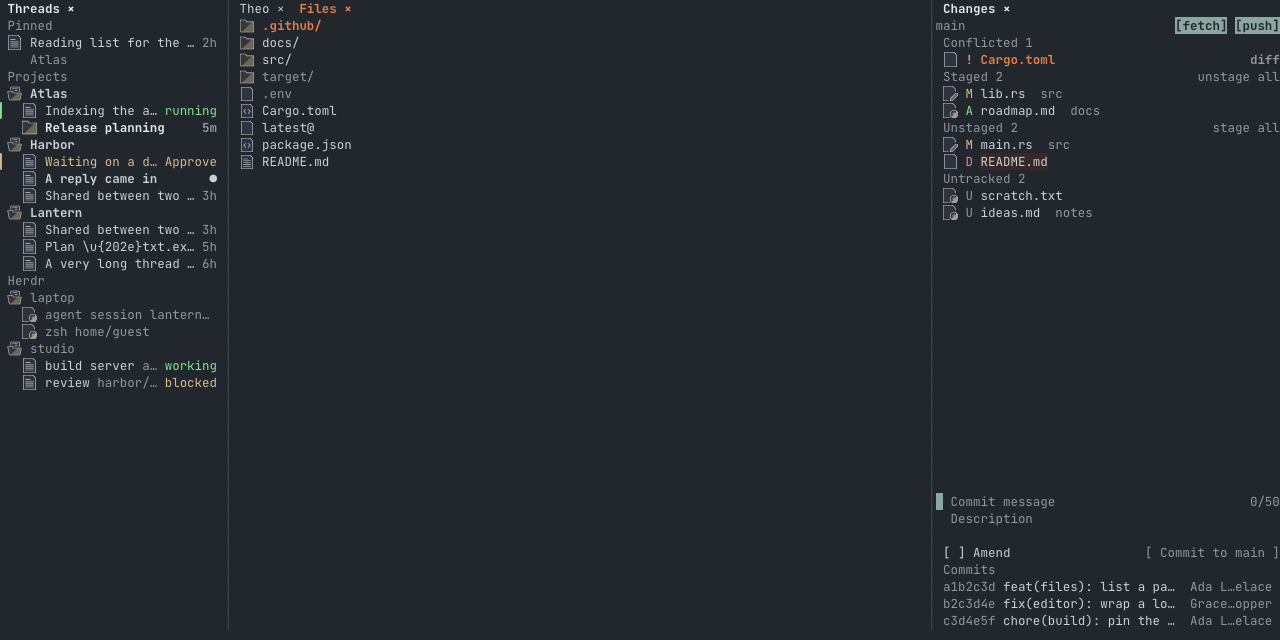
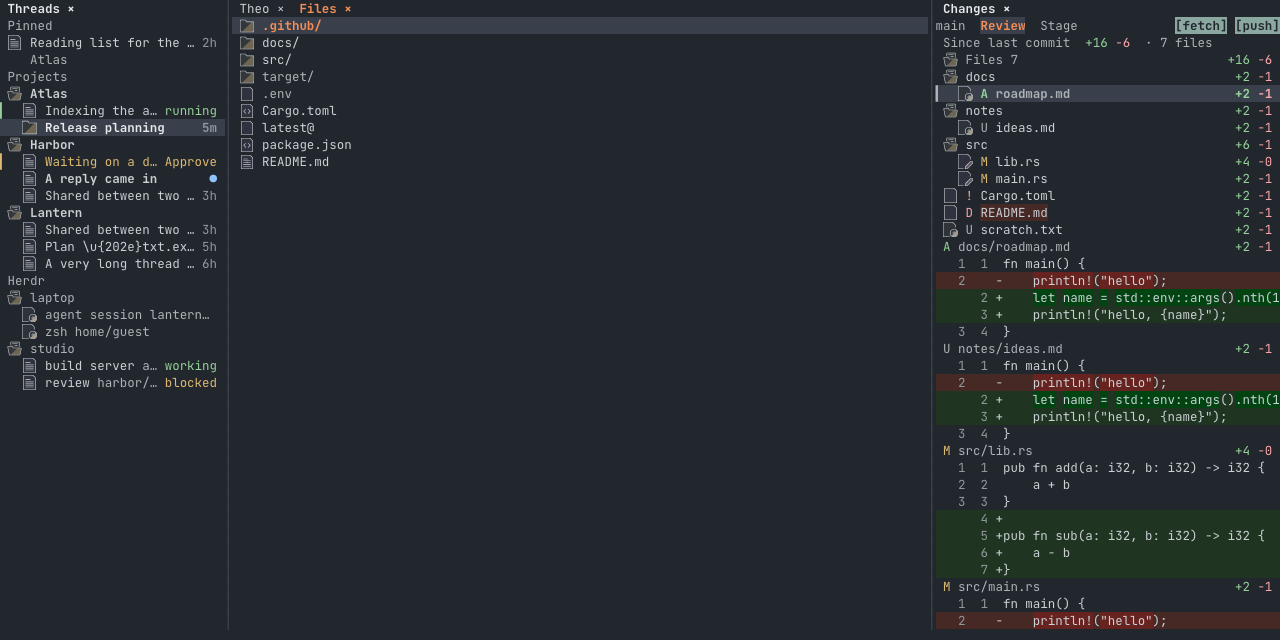
feat(panels): put the chosen row of Files and the tool picker on the selected surface
The chosen row in Files and in the tool picker now sits on the theme's
selected band, as it already does in Threads and Changes. Its letters keep
the focus colour while the panel holds the keyboard and bright ink while it
does not. A theme without a band draws as before.

The picker story opens the picker on its key again: since Threads moved to
the left and Changes with Files to the right, a fresh workbench no longer
rests on the picker, so the story showed none. Its render, its collage and
the Files, cabinet and default-arrangement renders are re-shot.

diff --git a/src/components/workbench/workbench-story.tsx b/src/components/workbench/workbench-story.tsx
@@ -331,8 +331,8 @@ export function WorkbenchDefaultStory() {
 }
 
 /**
- * `workbench-picker`: the tool picker in a tools pane wide enough for two columns (the core's fit
- * rule needs 86 cells), beside Files and the main page, every tool live.
+ * `workbench-picker`: the tool picker, opened on its key, in a tools pane wide enough for two columns
+ * (the core's fit rule needs 86 cells), beside the main page, every tool live.
  */
 export function WorkbenchPickerStory() {
   return (
@@ -341,8 +341,8 @@ export function WorkbenchPickerStory() {
       width={PICKER_WIDTH}
       height={PICKER_HEIGHT}
       options={{ granted: EVERY_TOOL }}
-      script={[]}
-      wait={['README.md', 'More tools']}
+      script={[{ chord: 't' }, { see: 'More tools' }]}
+      wait={['More tools']}
     />
   )
 }

diff --git a/terminal/crates/workbench-panels/tests/files.rs b/terminal/crates/workbench-panels/tests/files.rs
@@ -2294,3 +2294,35 @@ fn a_cut_is_not_applied_after_the_edit_has_ended() {
     answer(&mut r, &write, Outcome::Accepted);
     assert!(r.screen().contains("a.txt"), "{}", r.screen());
 }
+
+#[test]
+fn the_cursor_row_sits_on_the_selected_surface_when_the_theme_draws_one() {
+    let band = Color::Rgb(0x2a, 0x33, 0x3b);
+    let theme = Theme {
+        bg: Style::default().bg(Color::Blue),
+        text: Style::default().fg(Color::White),
+        focus: Style::default()
+            .fg(Color::Cyan)
+            .add_modifier(Modifier::BOLD),
+        selected_region: Style::default().bg(band),
+        ..colored()
+    };
+    let mut r = rig();
+    r.open_root();
+    r.key(Key::Down);
+    for focused in [true, false] {
+        let buf = r.draw_in(&theme, 90, 20, focused);
+        let banded: Vec<u16> = (0..20)
+            .filter(|y| (0..90).any(|x| buf[(x, *y)].bg == band))
+            .collect();
+        assert_eq!(banded.len(), 1, "one row on the band: {}", r.screen());
+        let y = banded[0];
+        assert!(
+            (0..90).all(|x| buf[(x, y)].bg == band),
+            "the band runs the row's whole width"
+        );
+        if focused {
+            assert!((0..90).any(|x| buf[(x, y)].fg == Color::Cyan));
+        }
+    }
+}

diff --git a/terminal/crates/workbench-core/tests/picker.rs b/terminal/crates/workbench-core/tests/picker.rs
@@ -1356,3 +1356,29 @@ fn no_node_the_picker_publishes_has_a_rect_with_no_area() {
         }
     }
 }
+
+#[test]
+fn the_chosen_row_sits_on_the_selected_surface_when_the_theme_draws_one() {
+    use ratatui::style::{Color, Style};
+    let band = Color::Rgb(0x2a, 0x33, 0x3b);
+    let view = standalone(false, "");
+    let area = Rect::new(0, 0, 60, 16);
+    let mut theme = Theme::plain();
+    theme.selected_region = Style::default().bg(band);
+    let workspace = Default::default();
+    let mut cx = ViewCtx::new(&theme, &workspace);
+    cx.picker = Some(&view);
+    let mut buf = Buffer::empty(area);
+    PickerPanel.view(area, &mut buf, &cx);
+    let banded: Vec<u16> = (0..16)
+        .filter(|y| (0..60).any(|x| buf[(x, *y)].bg == band))
+        .collect();
+    assert_eq!(banded.len(), 1, "one row on the band");
+    // Without a selected surface in the theme nothing is banded.
+    let plain = Theme::plain();
+    let mut cx = ViewCtx::new(&plain, &workspace);
+    cx.picker = Some(&view);
+    let mut buf = Buffer::empty(area);
+    PickerPanel.view(area, &mut buf, &cx);
+    assert!((0..16).all(|y| (0..60).all(|x| buf[(x, y)].bg != band)));
+}

diff --git a/terminal/crates/workbench-core/src/panels.rs b/terminal/crates/workbench-core/src/panels.rs
@@ -150,16 +150,20 @@ impl Panel for PickerPanel {
         if let Some(empty) = layout.empty {
             draw(buf, empty, PAD, NO_MATCH, cx.theme.muted);
         }
-        // The chosen row is drawn in letters, never a band: the focus colour while this panel
-        // holds the keyboard, bright ink while it does not.
+        // The chosen row is its letters (the focus colour while this panel holds the keyboard,
+        // bright ink while it does not) on the selected band, when the theme draws one.
         let chosen_style = if cx.focused {
             cx.theme.focus
         } else {
             cx.theme.selected
-        };
+        }
+        .patch(cx.theme.selected_region);
         for cell in &layout.cells {
             let row = &view.rows[cell.index];
             let selected = cell.index == view.selected;
+            if selected {
+                buf.set_style(cell.rect, cx.theme.selected_region);
+            }
             let label = match (&row.availability, selected) {
                 (_, true) => chosen_style,
                 (Availability::Available, false) => cx.theme.text,

diff --git a/terminal/crates/workbench-panels/src/files/draw.rs b/terminal/crates/workbench-panels/src/files/draw.rs
@@ -72,11 +72,13 @@ pub(super) fn view(p: &FilesPanel, area: Rect, buf: &mut Buffer, cx: &ViewCtx) {
             break;
         }
         let here = row.path().is_some() && row.path() == cursor.as_deref();
+        // A chosen row is its letters on the selected band, when the theme draws one (as in
+        // Threads and Changes).
         let line = if here {
             if cx.focused {
-                theme.focus
+                theme.focus.patch(theme.selected_region)
             } else {
-                theme.selected
+                theme.selected.patch(theme.selected_region)
             }
         } else {
             theme.text
